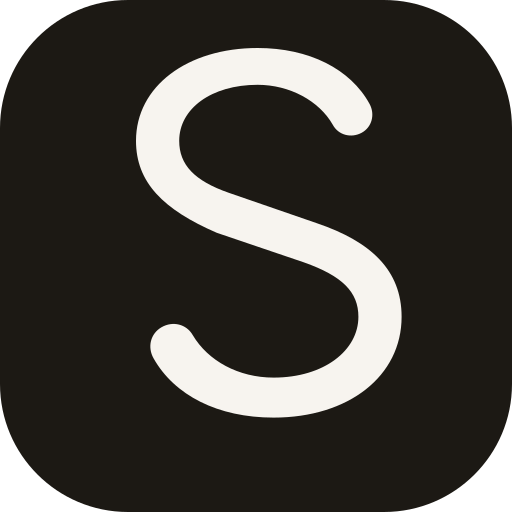
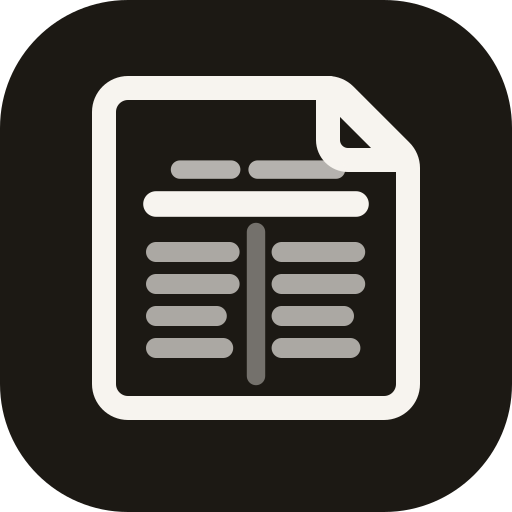
Restore newspaper brand mark without letterform
Replace the geometric S with a folded broadsheet icon —
masthead, column rules, and corner fold — for header and favicons.

Changed region(s): [[0.1562, 0.0938, 0.8438, 0.8438], [0.6875, 0.1562, 0.7188, 0.1875]]

diff --git a/src/components/brand/mark.tsx b/src/components/brand/mark.tsx
@@ -1,8 +1,8 @@
 import { cn } from "@/lib/utils";
 
 /**
- * sit with design mark — bold geometric ribbon (modern S / sit curve).
- * Solid, clean, favicon-friendly. currentColor for chip inversion.
+ * sit with design mark — folded broadsheet newspaper.
+ * Quiet editorial icon (no letterform). currentColor for chip inversion.
  */
 export function BrandMark({
   className,
@@ -21,7 +21,36 @@ export function BrandMark({
       role={title ? "img" : undefined}
     >
       {title ? <title>{title}</title> : null}
-      <path fill="currentColor" d="M8.5 8.8c0-3.4 3.2-5.8 7.6-5.8 3.2 0 5.8 1.3 7 3.5.35.65.15 1.45-.5 1.8-.65.35-1.45.15-1.8-.5-.85-1.5-2.7-2.5-4.7-2.5-2.9 0-4.9 1.5-4.9 3.5 0 1.5.95 2.5 3.1 3.25l5.5 1.9c3.4 1.15 5.3 2.95 5.3 5.85 0 3.7-3.3 6.3-8 6.3-3.5 0-6.2-1.4-7.5-3.7-.4-.7-.2-1.55.5-1.95.7-.4 1.55-.2 1.95.5.95 1.6 2.85 2.65 5.05 2.65 3.15 0 5.3-1.7 5.3-3.8 0-1.55-1-2.55-3.4-3.4l-5.45-1.85C10.2 13.1 8.5 11.4 8.5 8.8Z" />
+      <g
+        stroke="currentColor"
+        strokeLinecap="round"
+        strokeLinejoin="round"
+        fill="none"
+      >
+        <path
+          strokeWidth="1.5"
+          d="M8 5.5h12.5c.4 0 .78.16 1.06.44l3.5 3.5c.28.28.44.66.44 1.06V24c0 .83-.67 1.5-1.5 1.5H8A1.5 1.5 0 0 1 6.5 24V7A1.5 1.5 0 0 1 8 5.5Z"
+        />
+        <path strokeWidth="1.5" d="M20.5 5.5v3.25c0 .69.56 1.25 1.25 1.25H25" />
+        <path strokeWidth="1.5" d="M20.5 5.5 25 10" />
+        <path strokeWidth="1.6" d="M9.75 12.75h12.5" />
+        <path
+          strokeWidth="1.15"
+          opacity="0.7"
+          d="M11.25 10.6h3.2M16.1 10.6h4.9"
+        />
+        <path strokeWidth="1.15" opacity="0.4" d="M16 14.5v9" />
+        <path
+          strokeWidth="1.25"
+          opacity="0.65"
+          d="M9.75 15.75h4.6M9.75 17.75h4.6M9.75 19.75h3.8M9.75 21.75h4.2"
+        />
+        <path
+          strokeWidth="1.25"
+          opacity="0.65"
+          d="M17.6 15.75h4.6M17.6 17.75h4.6M17.6 19.75h3.9M17.6 21.75h4.3"
+        />
+      </g>
     </svg>
   );
 }
@@ -31,13 +60,13 @@ export function BrandMarkChip({ className }: { className?: string }) {
   return (
     <span
       className={cn(
-        "flex size-7 shrink-0 items-center justify-center rounded-lg bg-foreground p-[0.4rem] text-background",
+        "flex size-7 shrink-0 items-center justify-center rounded-lg bg-foreground p-[0.35rem] text-background",
         "transition-transform duration-300 ease-[cubic-bezier(0.22,1,0.36,1)]",
         "group-hover:scale-[1.04] group-active:scale-[0.97]",
         className
       )}
     >
-      <BrandMark className="size-[1.05rem]" />
+      <BrandMark className="size-[1.15rem]" />
     </span>
   );
 }
